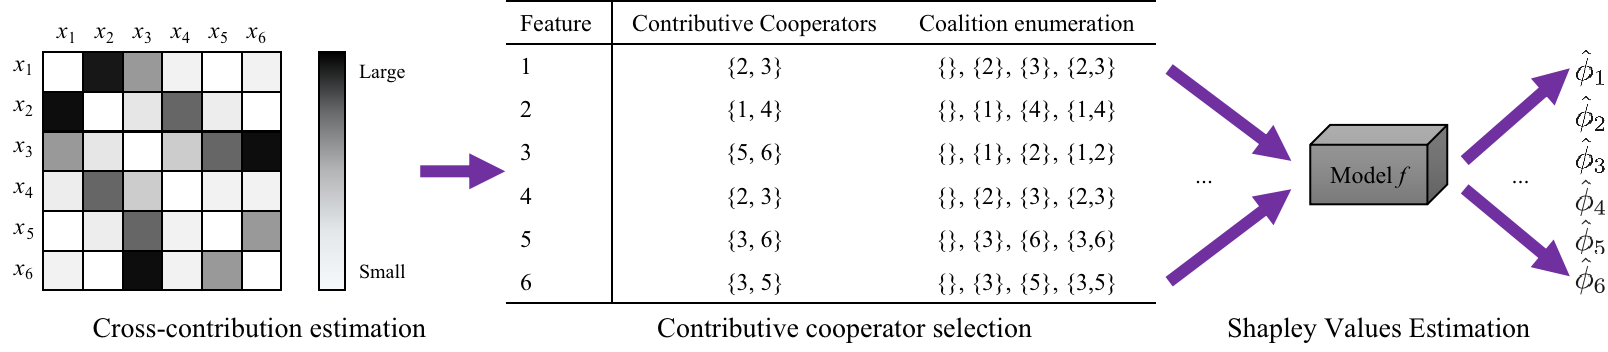
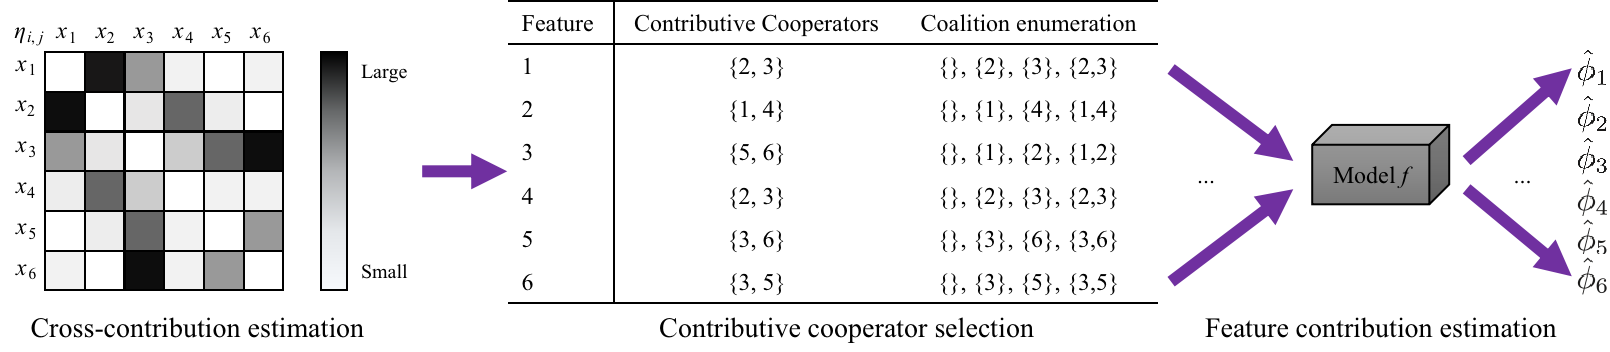
update repo.

diff --git a/README.md b/README.md
@@ -2,30 +2,30 @@
 
 ### Research Motivation
 
-Explaining the behavior of deep neural networks is a significant problem according to not only the practical requirement and but also the regulations in different domains.
-Among the state-of-art techniques of model interpretation, the Shapley value provides a natural and effective explanation for deep neural network from the perspective of cooperative game theory. 
+Explaining the behavior of deep neural networks (DNNs) is a significant problem according to not only the practical requirement and but also the regulations in different domains.
+Among the state-of-art techniques of DNN interpretation, the Shapley value provides a natural and effective explanation from the perspective of cooperative game theory. 
 However, the calculation of Shapley value is known to be an NP-hard problem with extremely high computational complexity. 
 To solve this problem, we propose <b>SHEAR</b> for efficient Shapley value estimation in this repo.
            
 ### Research Challenges  
 
 The brute-force algorithm to achieve exact Shapley values requires the enumeration of all possible feature coalitions, where the complexity grows exponentially with the feature number.
-To address this issue, SHEAR only focuses on the optimal cooperators of each feature for the estimation of feature contribution, where the enumeration throughout the whole feature space has been avoided. 
-In such a manner, the involved feature number reduces so that the computational efficiency can be significantly improved. 
+To address this issue, SHEAR only involves few feature coalitions for the estimation.
+In such a manner, the enumeration throughout the whole feature space can be avoided such that the computational efficiency can be significantly improved. 
 
 ### SHEAR Framework
 
-As shown in the following figure, given the black-box model <i>f</i> and feature value <b>x</b> = [x<sub>1</sub>,··· ,x<sub>M</sub>], SHEAR estimates the contribution of each feature independently.
+As shown in the following figure, given a DNN model <i>f</i> and feature value <b>x</b> = [x<sub>1</sub>,··· ,x<sub>M</sub>], SHEAR estimates the contribution of each feature independently.
 Specifically, for each feature, SHEAR first calculates its cross-contribution with other features; 
-then greedily selects the optimal cooperators to maximize the cumulative cross-contribution; 
-finally estimates the contribution of the feature throughout the optimal cooperators.
+then greedily selects the contributive cooperators to maximize the cumulative cross-contribution; 
+finally estimates the feature contribution throughout the coalitions of contributive cooperators.
 <div align=center>
 <img width="1000" height="200" src="https://anonymous.4open.science/r/Efficient-SHAP-09FD/figure/eff_shap.png">
 </div>
 
 ### Time Complexity of SHEAR
 
-SHEAR has once model backward process to calculate the gradient for cross-contribution estimation, and <i>N</i> times of model forward process for feature contribution estimation. 
+SHEAR has one model backward process to calculate the gradient for cross-contribution estimation, and <i>N</i> model forward process for feature contribution estimation. 
 Hence, SHEAR has the time consumption given by <i>T<sub>SHEAR</sub> ≈ t<sub>backward</sub> + N t<sub>forward</sub></i> for single feature
 contribution estimation.
 Considering to interpretation of a model <i>f</i> having <i>M</i> features, we process the <i>M</i> features consecutively in this repo, where the overall time-cost increases to <i>M</i> times of single feature.
